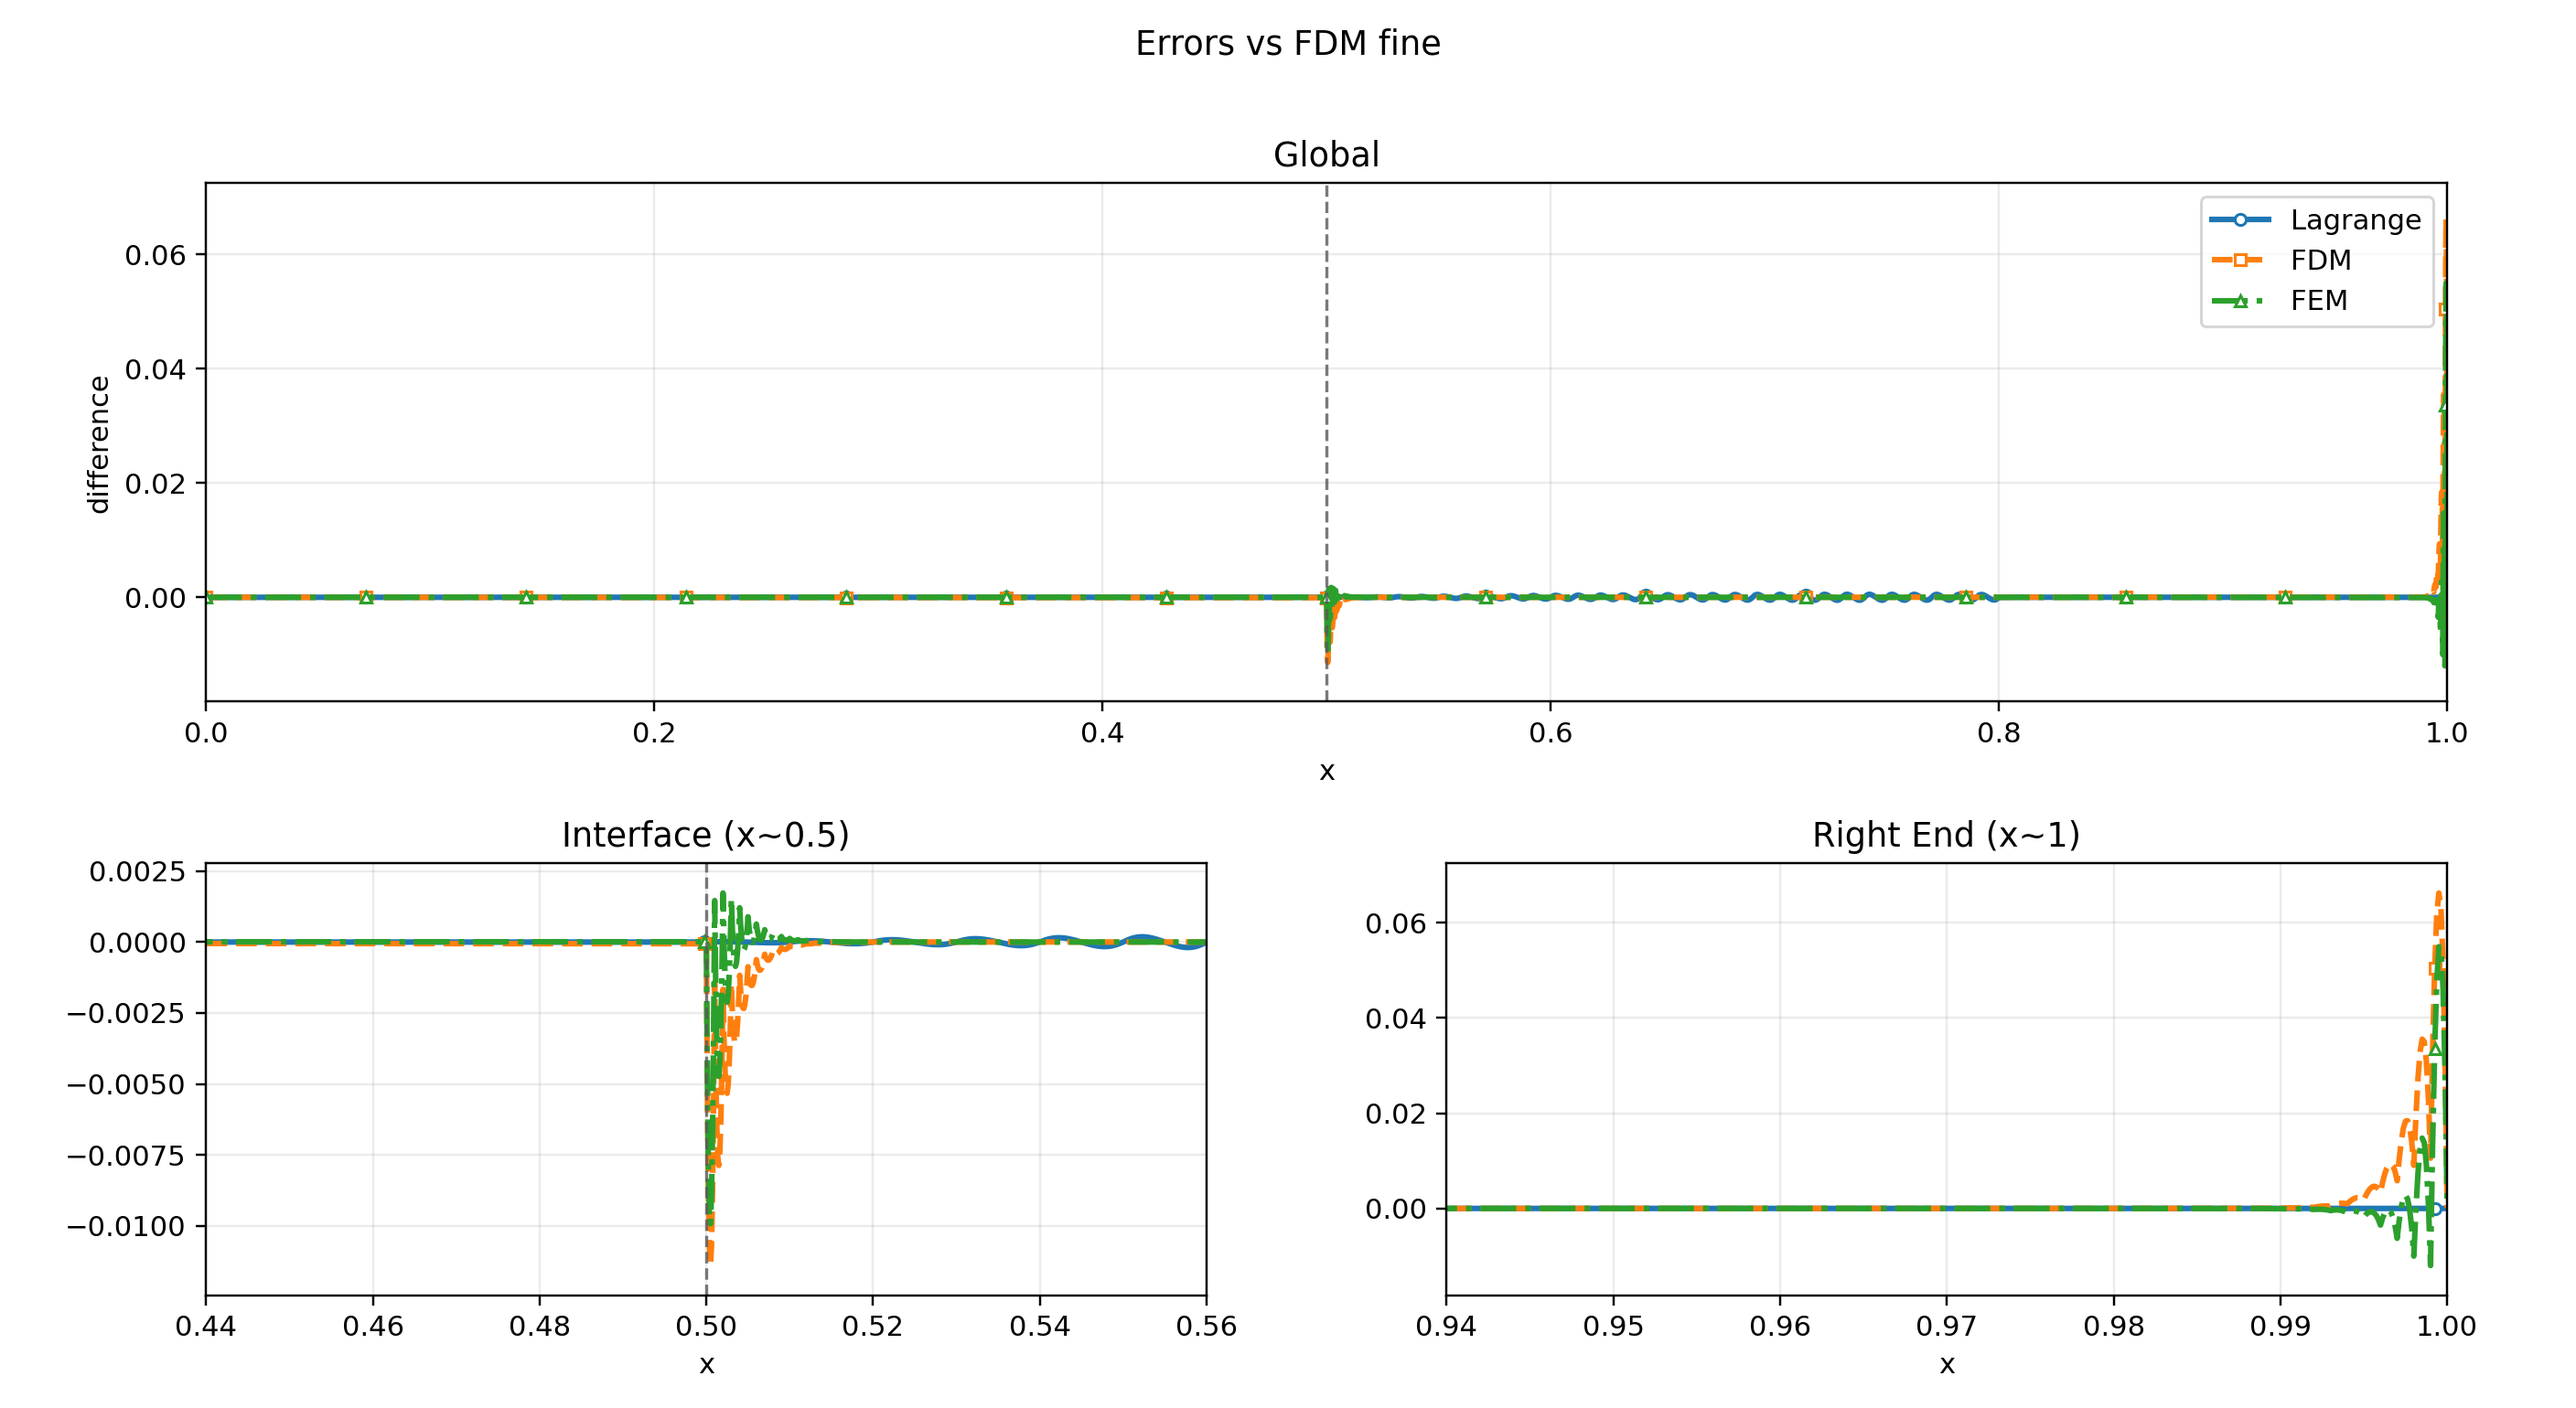
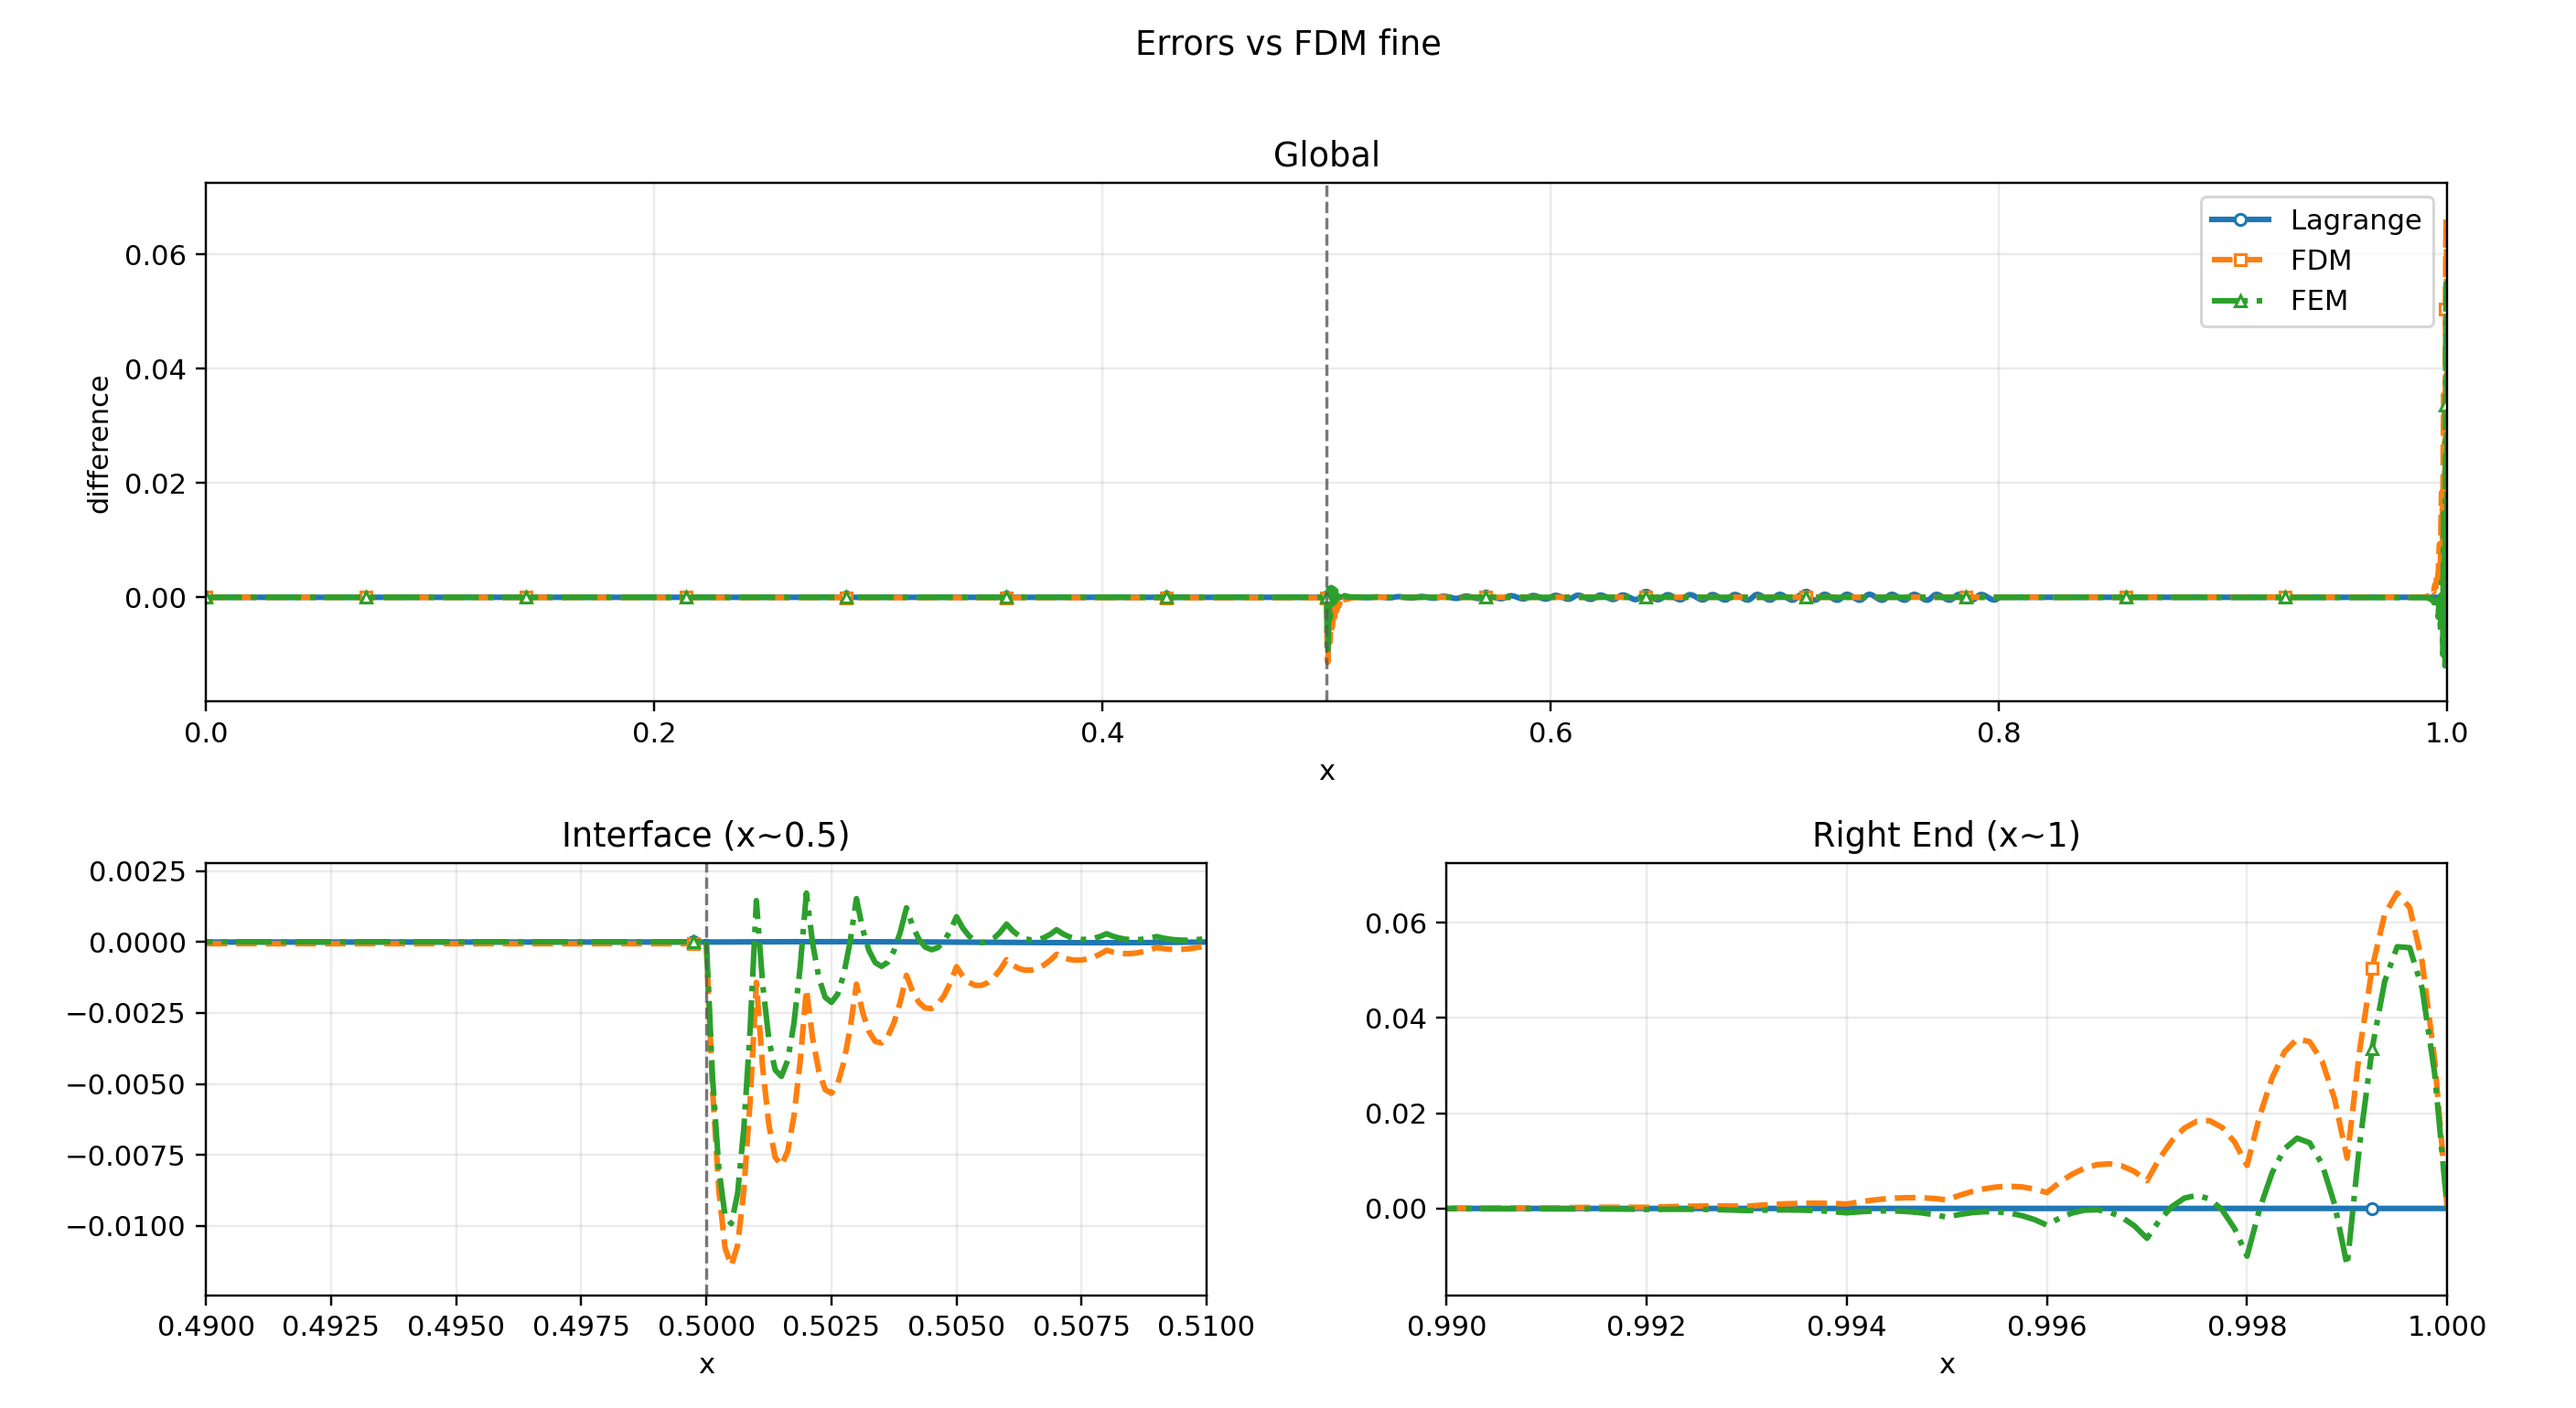
compare_lagrange modified

diff --git a/experiments/compare_lagrange/problem.py b/experiments/compare_lagrange/problem.py
@@ -21,18 +21,18 @@ from ...core.linear_interface import (
 
 
 DEFAULT_EPS1 = 1.0
-DEFAULT_EPS2 = 1.0
+DEFAULT_EPS2 = 1e-5
 DEFAULT_X_INTERFACE = 0.5
 
 
 def _coefficient_left(x: np.ndarray) -> np.ndarray:
     x = np.asarray(x, dtype=np.float64)
-    return 2 * np.exp(x)
+    return 10 * np.log(1 + x)
 
 
 def _coefficient_right(x: np.ndarray) -> np.ndarray:
     x = np.asarray(x, dtype=np.float64)
-    return (1 - x) ** 2
+    return np.exp(2 * x)
 
 
 def _exact_left(x: np.ndarray) -> np.ndarray:
@@ -65,23 +65,22 @@ def _exact_second_right(x: np.ndarray) -> np.ndarray:
     return np.exp(x)
 
 
-DEFAULT_LEFT_BC = float(_exact_left(np.array([X_DOMAIN[0]], dtype=np.float64))[0])
-DEFAULT_RIGHT_BC = float(_exact_right(np.array([X_DOMAIN[1]], dtype=np.float64))[0])
-DEFAULT_JUMP_U = float(
-    _exact_right(np.array([DEFAULT_X_INTERFACE], dtype=np.float64))[0]
-    - _exact_left(np.array([DEFAULT_X_INTERFACE], dtype=np.float64))[0]
-)
-DEFAULT_JUMP_FLUX = float(
-    DEFAULT_EPS2 * (np.exp(DEFAULT_X_INTERFACE) + 0.5) - DEFAULT_EPS1 * (2.0 * DEFAULT_X_INTERFACE)
-)
+DEFAULT_LEFT_BC = 0.0
+DEFAULT_RIGHT_BC = 1.0
+DEFAULT_JUMP_U = -0.5
+DEFAULT_JUMP_FLUX = 1e-5
+COEFFICIENT_LEFT_DESCRIPTION = "10 * log(1 + x)"
+COEFFICIENT_RIGHT_DESCRIPTION = "exp(2 * x)"
+RHS_LEFT_DESCRIPTION = "1"
+RHS_RIGHT_DESCRIPTION = "sin(2 * pi * x)"
 
 
 @dataclass
 class NumericalConfig:
     n_elements: int = 100
     n_ref: int = 1000000
-    n_fdm: int = 100
-    n_fem: int = 100
+    n_fdm: int = 1000
+    n_fem: int = 1000
     quad_n: int = 10
     n_seg_gauss: int = 8
     plot_per_element: int = 250
@@ -95,13 +94,24 @@ class NumericalConfig:
 
 @dataclass
 class OutputConfig:
-    output_dir: Path = field(default_factory=lambda: Path(__file__).resolve().parent / "results")
+    output_dir: Path = field(default_factory=lambda: Path(__file__).resolve().parent / "results_2")
     save_plots: bool = True
 
 
 @dataclass
 class ExperimentConfig:
-    problem: ProblemConfig = field(default_factory=ProblemConfig)
+    problem: ProblemConfig = field(
+        default_factory=lambda: ProblemConfig(
+            eps1=DEFAULT_EPS1,
+            eps2=DEFAULT_EPS2,
+            x_interface=DEFAULT_X_INTERFACE,
+            left_bc=DEFAULT_LEFT_BC,
+            right_bc=DEFAULT_RIGHT_BC,
+            jump_u=DEFAULT_JUMP_U,
+            jump_flux=DEFAULT_JUMP_FLUX,
+            reference_source="fdm",
+        )
+    )
     numerical: NumericalConfig = field(default_factory=NumericalConfig)
     output: OutputConfig = field(default_factory=OutputConfig)
 
@@ -123,15 +133,12 @@ def make_coefficient(config: ProblemConfig) -> Callable[[np.ndarray], np.ndarray
 
 def make_rhs(config: ProblemConfig) -> Callable[[np.ndarray], np.ndarray]:
     xI = config.x_interface
-    c_func = make_coefficient(config)
 
     def f_func(x: np.ndarray) -> np.ndarray:
         x = np.asarray(x, dtype=np.float64)
-        c = c_func(x)
-        exact = np.where(x <= xI, _exact_left(x), _exact_right(x))
-        exact_second = np.where(x <= xI, _exact_second_left(x), _exact_second_right(x))
-        eps = np.where(x <= xI, config.eps1, config.eps2)
-        return -eps * exact_second + c * exact
+        left = np.ones_like(x)
+        right = np.sin(2 * np.pi * x)
+        return np.where(x < xI, left, right)
 
     return f_func
 
@@ -156,11 +163,15 @@ __all__ = [
     "DEFAULT_LEFT_BC",
     "DEFAULT_RIGHT_BC",
     "DEFAULT_X_INTERFACE",
+    "COEFFICIENT_LEFT_DESCRIPTION",
+    "COEFFICIENT_RIGHT_DESCRIPTION",
     "ExactReference",
     "ExperimentConfig",
     "NumericalConfig",
     "OutputConfig",
     "ProblemConfig",
+    "RHS_LEFT_DESCRIPTION",
+    "RHS_RIGHT_DESCRIPTION",
     "X_DOMAIN",
     "flux_jump_average_weights",
     "make_coefficient",

diff --git a/experiments/compare_lagrange/run_compare_lagrange.py b/experiments/compare_lagrange/run_compare_lagrange.py
@@ -47,9 +47,13 @@ from .analysis_plot import (
     write_summary,
 )
 from .problem import (
+    COEFFICIENT_LEFT_DESCRIPTION,
+    COEFFICIENT_RIGHT_DESCRIPTION,
     DEFAULT_EXPERIMENT,
     ExactReference,
     ExperimentConfig,
+    RHS_LEFT_DESCRIPTION,
+    RHS_RIGHT_DESCRIPTION,
     X_DOMAIN,
     flux_jump_average_weights,
     make_coefficient,
@@ -237,6 +241,15 @@ def _summary_config_sections(cfg, num, out_dir: Path, save_plots: bool) -> list[
                 "jump_u": cfg.jump_u,
                 "jump_flux": cfg.jump_flux,
                 "reference_source": cfg.reference_source,
+            },
+        ),
+        (
+            "Equation settings:",
+            {
+                "coefficient_left": COEFFICIENT_LEFT_DESCRIPTION,
+                "coefficient_right": COEFFICIENT_RIGHT_DESCRIPTION,
+                "rhs_left": RHS_LEFT_DESCRIPTION,
+                "rhs_right": RHS_RIGHT_DESCRIPTION,
             },
         ),
         (

diff --git a/experiments/compare_lagrange/analysis_plot.py b/experiments/compare_lagrange/analysis_plot.py
@@ -104,8 +104,8 @@ def _window_y_limits(
 
 def _zoom_windows(x_min: float, x_max: float, xI: float) -> list[tuple[str, tuple[float, float]]]:
     span = max(x_max - x_min, 1e-12)
-    interface_half_width = max(0.06 * span, 0.02 * span)
-    right_width = max(0.06 * span, 0.02 * span)
+    interface_half_width = 0.01 * span
+    right_width = 0.01 * span
     return [
         ("Global", (x_min, x_max)),
         (
